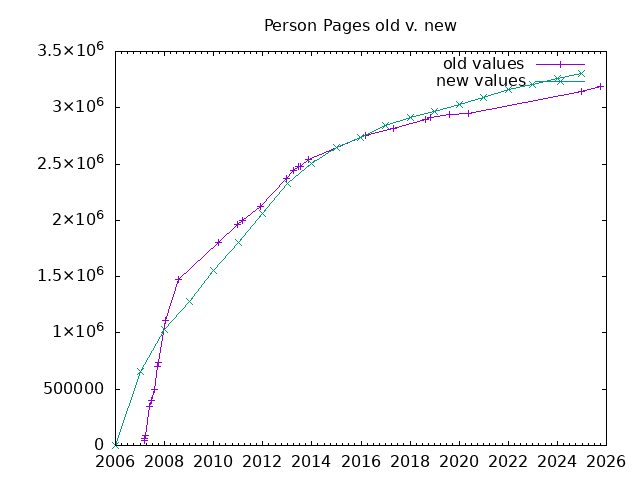
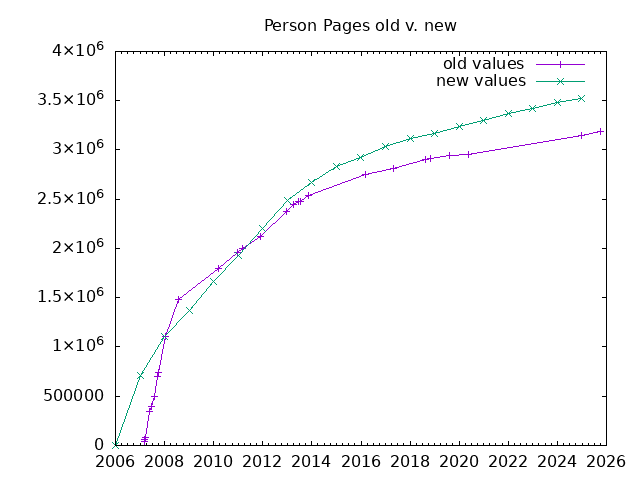
many corrections and add the generated reports

diff --git a/reports/report-lastmonth.md b/reports/report-lastmonth.md
@@ -1,0 +1,29 @@
+
+Here is the activity in WeRelate for the month (2025-09-01 to 2025-09-30):
+
+There were 50 active users
+making 23747 edits to 8753 pages (Person and Family)
+of those pages, 5225 (3605 Person) of them were newly created.
+
+There were 15 people who joined WeRelate this month:
+
+* [Angela.tincher](https://www.werelate.org/wiki/User:Angela.tincher) -- [17 edits](https://www.werelate.org/wiki/Special:Contributions/Angela.tincher)
+* [Apresson85](https://www.werelate.org/wiki/User:Apresson85) -- [1 edits](https://www.werelate.org/wiki/Special:Contributions/Apresson85)
+* [Digginstoor](https://www.werelate.org/wiki/User:Digginstoor) -- [2 edits](https://www.werelate.org/wiki/Special:Contributions/Digginstoor)
+* [Fuzzybutt](https://www.werelate.org/wiki/User:Fuzzybutt) -- [3 edits](https://www.werelate.org/wiki/Special:Contributions/Fuzzybutt)
+* [Genimt](https://www.werelate.org/wiki/User:Genimt) -- [3 edits](https://www.werelate.org/wiki/Special:Contributions/Genimt)
+* [HJNYTONI](https://www.werelate.org/wiki/User:HJNYTONI) -- [15 edits](https://www.werelate.org/wiki/Special:Contributions/HJNYTONI)
+* [Jb1985](https://www.werelate.org/wiki/User:Jb1985) -- [2 edits](https://www.werelate.org/wiki/Special:Contributions/Jb1985)
+* [John12](https://www.werelate.org/wiki/User:John12) -- [120 edits](https://www.werelate.org/wiki/Special:Contributions/John12)
+* [Lisacul16%](https://www.werelate.org/wiki/User:Lisacul16%) -- [2 edits](https://www.werelate.org/wiki/Special:Contributions/Lisacul16%)
+* [Ray Wardrop](https://www.werelate.org/wiki/User:Ray Wardrop) -- [8 edits](https://www.werelate.org/wiki/Special:Contributions/Ray Wardrop)
+* [RogerAsh](https://www.werelate.org/wiki/User:RogerAsh) -- [2 edits](https://www.werelate.org/wiki/Special:Contributions/RogerAsh)
+* [Semccann](https://www.werelate.org/wiki/User:Semccann) -- [3 edits](https://www.werelate.org/wiki/Special:Contributions/Semccann)
+* [TestOfWow](https://www.werelate.org/wiki/User:TestOfWow) -- [1 edits](https://www.werelate.org/wiki/Special:Contributions/TestOfWow)
+* [Wiebe](https://www.werelate.org/wiki/User:Wiebe) -- [3 edits](https://www.werelate.org/wiki/Special:Contributions/Wiebe)
+* [Yuvals27](https://www.werelate.org/wiki/User:Yuvals27) -- [1 edits](https://www.werelate.org/wiki/Special:Contributions/Yuvals27)
+
+Here is a chart of the daily activity:
+
+![daily activity chart](page-daily-lastmonth.png)
+

diff --git a/reports/report-thismonth.md b/reports/report-thismonth.md
@@ -1,0 +1,16 @@
+
+Here is the activity in WeRelate for the month (2025-10-01 to 2025-10-01):
+
+There were 9 active users
+making 337 edits to 124 pages (Person and Family)
+of those pages, 78 (63 Person) of them were newly created.
+
+There were 2 people who joined WeRelate this month:
+
+* [EllenbergerWolfgang](https://www.werelate.org/wiki/User:EllenbergerWolfgang) -- [1 edits](https://www.werelate.org/wiki/Special:Contributions/EllenbergerWolfgang)
+* [SLeeB5](https://www.werelate.org/wiki/User:SLeeB5) -- [12 edits](https://www.werelate.org/wiki/Special:Contributions/SLeeB5)
+
+Here is a chart of the daily activity:
+
+![daily activity chart](page-daily-thismonth.png)
+

diff --git a/index.md b/index.md
@@ -1,5 +1,9 @@
 This is a collection of tools for working with WeRelate.  The primary tool, at this point, is a script for gathering history and then generating reports about WeRelate activity.
 
+Monthly activity summaries:
+* [last month](report/report-lastmonth.md)
+* [this month](report/report-thismonth.md)
+
 Here is a chart comparing the historical data from [the old growth graph](https://www.werelate.org/wiki/Image:Werelate_growth_v2.jpg) and my data:
 
 ![old v. new person counts](reports/verify-persons.png)
